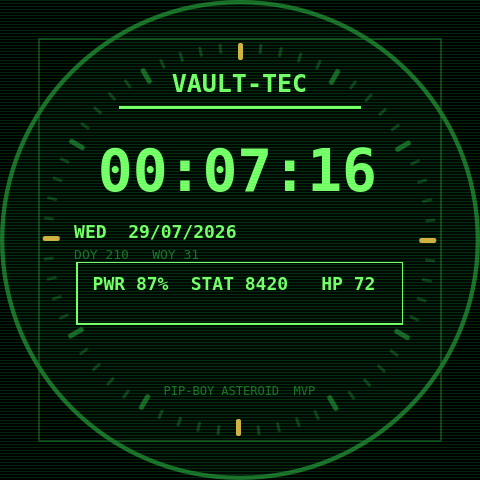
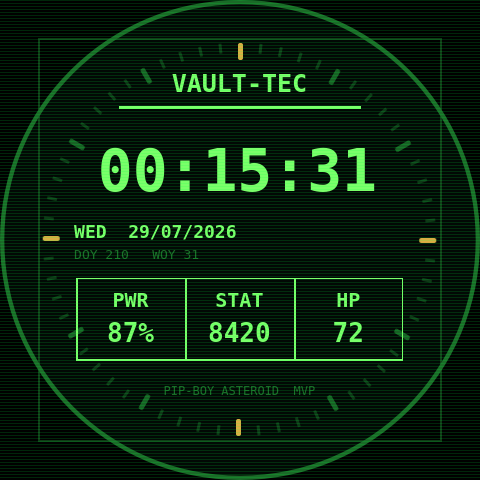
Split status panel into stacked blocks

diff --git a/catfish-pipboy/usr/share/asteroid-launcher/watchfaces/catfish-pipboy.qml b/catfish-pipboy/usr/share/asteroid-launcher/watchfaces/catfish-pipboy.qml
@@ -153,24 +153,40 @@ Item {
             Rectangle {
                 id: lowerPanel
                 x: safe.width * 0.095
-                y: safe.height * 0.555
+                y: safe.height * 0.595
                 width: safe.width * 0.81
-                height: safe.height * 0.155
+                height: safe.height * 0.205
                 color: "transparent"
                 border.width: Math.max(1, safe.width * 0.004)
                 border.color: app.phosphor
             }
 
+            Rectangle {
+                x: lowerPanel.x + lowerPanel.width / 3
+                y: lowerPanel.y
+                width: Math.max(1, safe.width * 0.004)
+                height: lowerPanel.height
+                color: app.phosphor
+            }
+
+            Rectangle {
+                x: lowerPanel.x + lowerPanel.width * 2 / 3
+                y: lowerPanel.y
+                width: Math.max(1, safe.width * 0.004)
+                height: lowerPanel.height
+                color: app.phosphor
+            }
+
             Text {
                 x: lowerPanel.x
-                y: lowerPanel.y + lowerPanel.height * 0.18
+                y: lowerPanel.y + lowerPanel.height * 0.12
                 width: lowerPanel.width / 3
                 color: app.phosphor
-                text: "PWR " + app.batteryPercentStub + "%"
+                text: "PWR"
                 horizontalAlignment: Text.AlignHCenter
                 font {
                     family: "monospace"
-                    pixelSize: lowerPanel.height * 0.29
+                    pixelSize: lowerPanel.height * 0.24
                     bold: true
                     letterSpacing: 0
                 }
@@ -178,14 +194,14 @@ Item {
 
             Text {
                 x: lowerPanel.x + lowerPanel.width / 3
-                y: lowerPanel.y + lowerPanel.height * 0.18
+                y: lowerPanel.y + lowerPanel.height * 0.12
                 width: lowerPanel.width / 3
                 color: app.phosphor
-                text: "STAT " + app.stepsStub
+                text: "STAT"
                 horizontalAlignment: Text.AlignHCenter
                 font {
                     family: "monospace"
-                    pixelSize: lowerPanel.height * 0.29
+                    pixelSize: lowerPanel.height * 0.24
                     bold: true
                     letterSpacing: 0
                 }
@@ -193,14 +209,59 @@ Item {
 
             Text {
                 x: lowerPanel.x + lowerPanel.width * 2 / 3
-                y: lowerPanel.y + lowerPanel.height * 0.18
+                y: lowerPanel.y + lowerPanel.height * 0.12
                 width: lowerPanel.width / 3
                 color: app.phosphor
-                text: "HP " + app.heartRateStub
+                text: "HP"
                 horizontalAlignment: Text.AlignHCenter
                 font {
                     family: "monospace"
-                    pixelSize: lowerPanel.height * 0.29
+                    pixelSize: lowerPanel.height * 0.24
+                    bold: true
+                    letterSpacing: 0
+                }
+            }
+
+            Text {
+                x: lowerPanel.x
+                y: lowerPanel.y + lowerPanel.height * 0.48
+                width: lowerPanel.width / 3
+                color: app.phosphor
+                text: app.batteryPercentStub + "%"
+                horizontalAlignment: Text.AlignHCenter
+                font {
+                    family: "monospace"
+                    pixelSize: lowerPanel.height * 0.31
+                    bold: true
+                    letterSpacing: 0
+                }
+            }
+
+            Text {
+                x: lowerPanel.x + lowerPanel.width / 3
+                y: lowerPanel.y + lowerPanel.height * 0.48
+                width: lowerPanel.width / 3
+                color: app.phosphor
+                text: app.stepsStub
+                horizontalAlignment: Text.AlignHCenter
+                font {
+                    family: "monospace"
+                    pixelSize: lowerPanel.height * 0.31
+                    bold: true
+                    letterSpacing: 0
+                }
+            }
+
+            Text {
+                x: lowerPanel.x + lowerPanel.width * 2 / 3
+                y: lowerPanel.y + lowerPanel.height * 0.48
+                width: lowerPanel.width / 3
+                color: app.phosphor
+                text: app.heartRateStub
+                horizontalAlignment: Text.AlignHCenter
+                font {
+                    family: "monospace"
+                    pixelSize: lowerPanel.height * 0.31
                     bold: true
                     letterSpacing: 0
                 }

diff --git a/qml/Main.qml b/qml/Main.qml
@@ -153,24 +153,40 @@ Item {
             Rectangle {
                 id: lowerPanel
                 x: safe.width * 0.095
-                y: safe.height * 0.555
+                y: safe.height * 0.595
                 width: safe.width * 0.81
-                height: safe.height * 0.155
+                height: safe.height * 0.205
                 color: "transparent"
                 border.width: Math.max(1, safe.width * 0.004)
                 border.color: app.phosphor
             }
 
+            Rectangle {
+                x: lowerPanel.x + lowerPanel.width / 3
+                y: lowerPanel.y
+                width: Math.max(1, safe.width * 0.004)
+                height: lowerPanel.height
+                color: app.phosphor
+            }
+
+            Rectangle {
+                x: lowerPanel.x + lowerPanel.width * 2 / 3
+                y: lowerPanel.y
+                width: Math.max(1, safe.width * 0.004)
+                height: lowerPanel.height
+                color: app.phosphor
+            }
+
             Text {
                 x: lowerPanel.x
-                y: lowerPanel.y + lowerPanel.height * 0.18
+                y: lowerPanel.y + lowerPanel.height * 0.12
                 width: lowerPanel.width / 3
                 color: app.phosphor
-                text: "PWR " + app.batteryPercentStub + "%"
+                text: "PWR"
                 horizontalAlignment: Text.AlignHCenter
                 font {
                     family: "monospace"
-                    pixelSize: lowerPanel.height * 0.29
+                    pixelSize: lowerPanel.height * 0.24
                     bold: true
                     letterSpacing: 0
                 }
@@ -178,14 +194,14 @@ Item {
 
             Text {
                 x: lowerPanel.x + lowerPanel.width / 3
-                y: lowerPanel.y + lowerPanel.height * 0.18
+                y: lowerPanel.y + lowerPanel.height * 0.12
                 width: lowerPanel.width / 3
                 color: app.phosphor
-                text: "STAT " + app.stepsStub
+                text: "STAT"
                 horizontalAlignment: Text.AlignHCenter
                 font {
                     family: "monospace"
-                    pixelSize: lowerPanel.height * 0.29
+                    pixelSize: lowerPanel.height * 0.24
                     bold: true
                     letterSpacing: 0
                 }
@@ -193,14 +209,59 @@ Item {
 
             Text {
                 x: lowerPanel.x + lowerPanel.width * 2 / 3
-                y: lowerPanel.y + lowerPanel.height * 0.18
+                y: lowerPanel.y + lowerPanel.height * 0.12
                 width: lowerPanel.width / 3
                 color: app.phosphor
-                text: "HP " + app.heartRateStub
+                text: "HP"
                 horizontalAlignment: Text.AlignHCenter
                 font {
                     family: "monospace"
-                    pixelSize: lowerPanel.height * 0.29
+                    pixelSize: lowerPanel.height * 0.24
+                    bold: true
+                    letterSpacing: 0
+                }
+            }
+
+            Text {
+                x: lowerPanel.x
+                y: lowerPanel.y + lowerPanel.height * 0.48
+                width: lowerPanel.width / 3
+                color: app.phosphor
+                text: app.batteryPercentStub + "%"
+                horizontalAlignment: Text.AlignHCenter
+                font {
+                    family: "monospace"
+                    pixelSize: lowerPanel.height * 0.31
+                    bold: true
+                    letterSpacing: 0
+                }
+            }
+
+            Text {
+                x: lowerPanel.x + lowerPanel.width / 3
+                y: lowerPanel.y + lowerPanel.height * 0.48
+                width: lowerPanel.width / 3
+                color: app.phosphor
+                text: app.stepsStub
+                horizontalAlignment: Text.AlignHCenter
+                font {
+                    family: "monospace"
+                    pixelSize: lowerPanel.height * 0.31
+                    bold: true
+                    letterSpacing: 0
+                }
+            }
+
+            Text {
+                x: lowerPanel.x + lowerPanel.width * 2 / 3
+                y: lowerPanel.y + lowerPanel.height * 0.48
+                width: lowerPanel.width / 3
+                color: app.phosphor
+                text: app.heartRateStub
+                horizontalAlignment: Text.AlignHCenter
+                font {
+                    family: "monospace"
+                    pixelSize: lowerPanel.height * 0.31
                     bold: true
                     letterSpacing: 0
                 }
